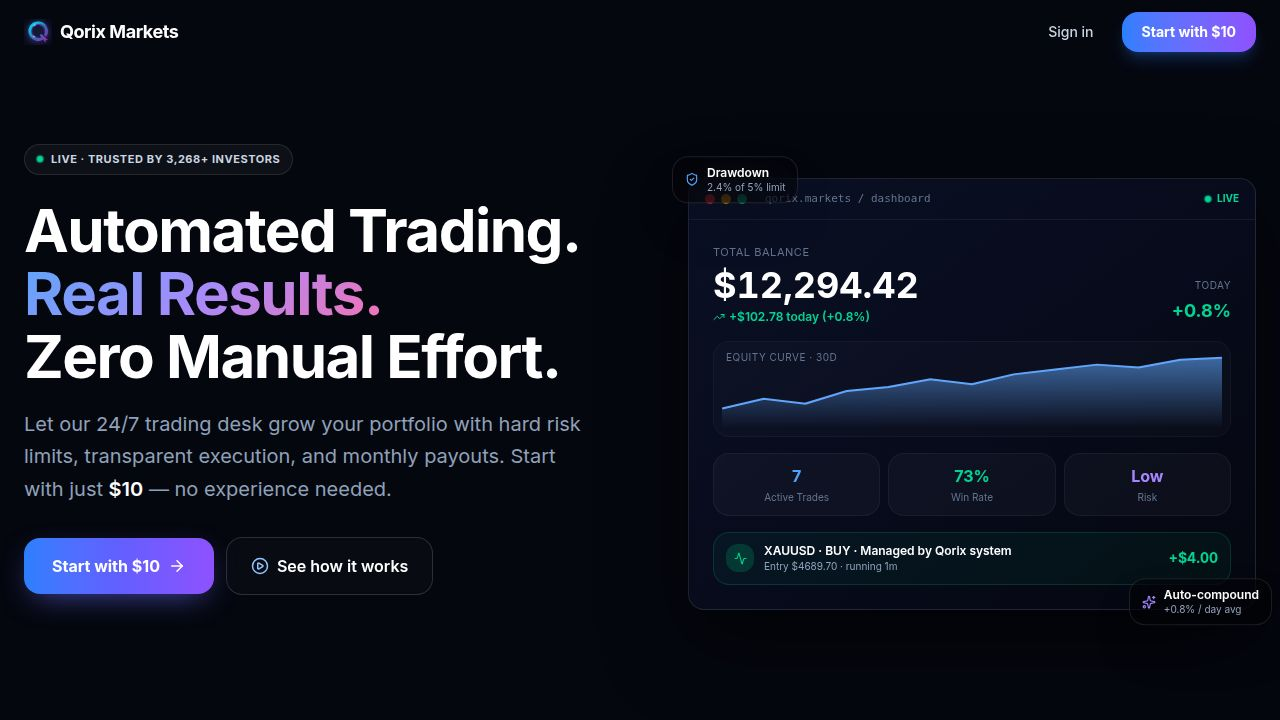
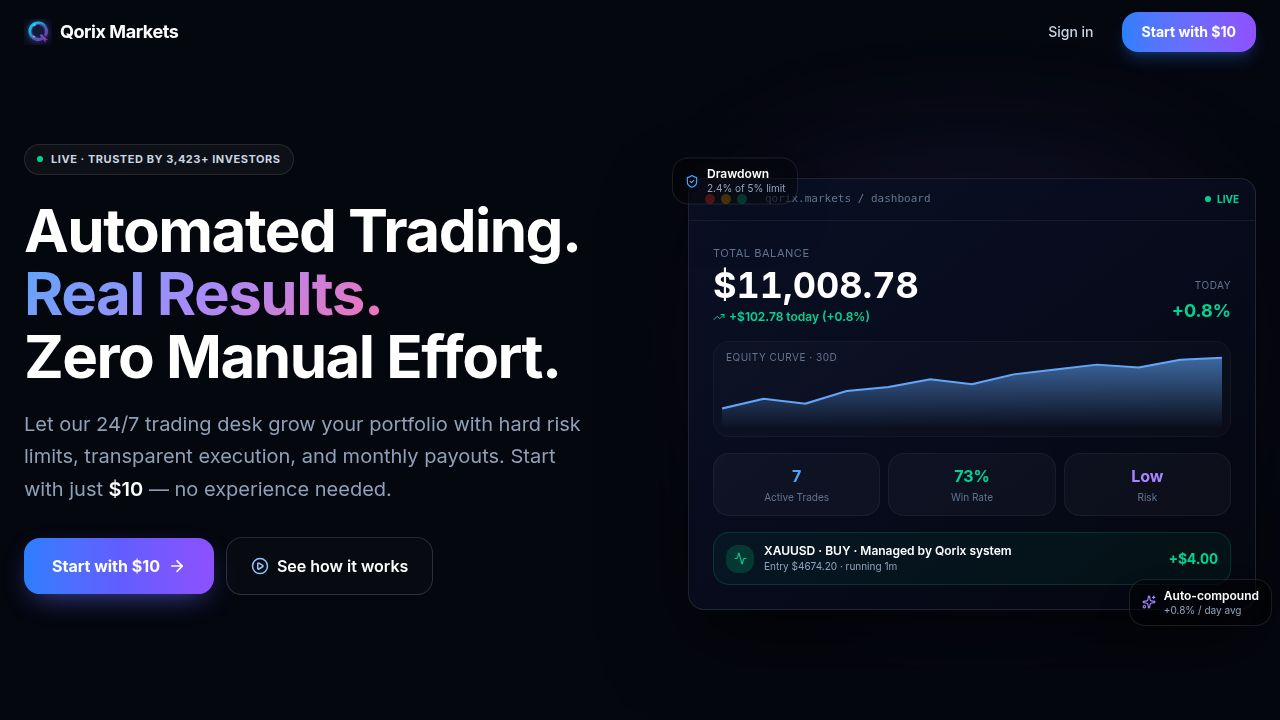
feat(inr-withdraw): replace plain success toast with celebratory receipt modal
User asked for a "achha popup" on the withdrawal page — the prior
single-line toast ("Withdrawal request submitted / ₹X held from your
Main Balance. Admin will process within 24h.") felt thin for an action
that locks real money.

Frontend (artifacts/qorix-markets/src/components/inr-withdraw-tab.tsx):
- New WithdrawalSuccessModal: glass card with emerald gradient halo,
  spring-animated checkmark with pulsing ring, "Submitted" pill,
  big ₹ amount, USDT held + executed rate, payout target row
  (UPI id, or holder/bank/****last4), copyable QXW-XXXXXX reference
  derived from the withdrawal id, "Expected By" ETA = createdAt+24h,
  reassurance footer about auto-refund on rejection.
- Two CTAs: "View History" (closes + smooth-scrolls to recent withdrawals
  via new id="inr-withdraw-history" anchor) and "Done".
- Body scroll locked while open. Backdrop click + X + Done all close.
  Framer-motion spring enter/exit.
- Submit handler reads server response { withdrawal } and drives the
  modal off the server-issued row instead of locally-typed values.
- Modal reads receipt.rateUsed (server-side rate snapshot) instead of
  the live limits.rate prop, so the displayed "@ ₹X.XX" cannot drift if
  the platform rate changes between submit and render.

Two commits shipped in sequence:
- 0d3fd08  feat: celebratory success receipt modal in place of plain toast
- fe5c976  fix: show executed rateUsed from server response (architect-pass tightening)
[…]

diff --git a/artifacts/qorix-markets/src/components/inr-withdraw-tab.tsx b/artifacts/qorix-markets/src/components/inr-withdraw-tab.tsx
@@ -5,6 +5,7 @@ import { useQueryClient } from "@tanstack/react-query";
 import { getGetWalletQueryKey } from "@workspace/api-client-react";
 import {
   IndianRupee, Building2, Smartphone, AlertCircle, CheckCircle2, Clock, Loader2, ShieldCheck,
+  X, Sparkles, Hash, ArrowDownToLine, Copy, Check,
 } from "lucide-react";
 
 const BASE_URL = import.meta.env.BASE_URL?.replace(/\/$/, "") ?? "";
@@ -68,6 +69,11 @@ export function InrWithdrawTab({ kycApproved, onKycRequired }: { kycApproved: bo
   const [ifsc, setIfsc] = useState("");
   const [bankName, setBankName] = useState("");
   const [submitting, setSubmitting] = useState(false);
+
+  // Success modal state — replaces the prior plain toast with a richer
+  // celebratory receipt modal so the user gets a clear, confidence-building
+  // confirmation that their funds have been held and the request is queued.
+  const [successReceipt, setSuccessReceipt] = useState<Withdrawal | null>(null);
 
   // IFSC auto-verification (Razorpay free IFSC API)
   const [ifscStatus, setIfscStatus] = useState<"idle" | "loading" | "verified" | "error">("idle");
@@ -159,11 +165,11 @@ export function InrWithdrawTab({ kycApproved, onKycRequired }: { kycApproved: bo
         body.ifsc = ifsc.trim().toUpperCase();
         if (bankName.trim()) body.bankName = bankName.trim();
       }
-      await apiFetch("/inr-withdrawals", { method: "POST", body: JSON.stringify(body) });
-      toast({
-        title: "Withdrawal request submitted",
-        description: `₹${amount.toFixed(2)} held from your Main Balance. Admin will process within 24h.`,
-      });
+      const resp = await apiFetch("/inr-withdrawals", { method: "POST", body: JSON.stringify(body) });
+      // Show celebratory receipt modal instead of a plain toast. Includes the
+      // server-issued reference id, exact USDT held, payout target, and ETA so
+      // the user has a one-glance proof that the request is queued.
+      if (resp?.withdrawal) setSuccessReceipt(resp.withdrawal as Withdrawal);
       setAmountInr("");
       setUpiId(""); setAccountHolder(""); setAccountNumber(""); setIfsc(""); setBankName("");
       queryClient.invalidateQueries({ queryKey: getGetWalletQueryKey() });
@@ -426,9 +432,18 @@ export function InrWithdrawTab({ kycApproved, onKycRequired }: { kycApproved: bo
         </div>
       )}
 
+      {/* Celebratory success receipt modal — replaces the prior plain toast.
+          Reads the executed rate straight off the server response (`rateUsed`)
+          rather than current `limits.rate`, so the displayed receipt cannot
+          drift if the platform rate is changed between submit and render. */}
+      <WithdrawalSuccessModal
+        receipt={successReceipt}
+        onClose={() => setSuccessReceipt(null)}
+      />
+
       {/* History */}
       {history.length > 0 && (
-        <div className="space-y-2">
+        <div id="inr-withdraw-history" className="space-y-2">
           <div className="text-xs uppercase tracking-wider text-muted-foreground font-semibold pt-2">Recent INR Withdrawals</div>
           <AnimatePresence initial={false}>
             {history.slice(0, 5).map((w) => (
@@ -479,5 +494,275 @@ function StatusPill({ status }: { status: "pending" | "approved" | "rejected" })
     <span className={`inline-flex items-center gap-1 px-2 py-0.5 rounded-full text-[10px] border ${styles}`}>
       <Icon style={{ width: 10, height: 10 }} /> {label}
     </span>
+  );
+}
+
+/**
+ * Celebratory withdrawal success modal.
+ *
+ * Renders a polished receipt overlay when an INR withdrawal request is
+ * accepted by the server. Shows: animated check, big amount, USDT held,
+ * payout target (UPI / bank), reference id, ETA, and CTAs.
+ *
+ * Closing the modal does not affect the underlying state — the history list
+ * below already reflects the new pending entry, so the user can see it again
+ * any time. Body scroll is locked while open for focus.
+ */
+function WithdrawalSuccessModal({
+  receipt,
+  onClose,
+}: {
+  receipt: Withdrawal | null;
+  onClose: () => void;
+}) {
+  const [copied, setCopied] = useState(false);
+
+  // Lock body scroll while modal is open so the celebratory animation gets the
+  // user's full attention and the form below doesn't bleed through visually.
+  useEffect(() => {
+    if (!receipt) return;
+    const prev = document.body.style.overflow;
+    document.body.style.overflow = "hidden";
+    return () => { document.body.style.overflow = prev; };
+  }, [receipt]);
+
+  // Auto-reset the "copied" pill after 1.6s so the affordance can be re-used.
+  useEffect(() => {
+    if (!copied) return;
+    const t = setTimeout(() => setCopied(false), 1600);
+    return () => clearTimeout(t);
+  }, [copied]);
+
+  if (!receipt) return null;
+
+  const refCode = `QXW-${String(receipt.id).padStart(6, "0")}`;
+  const usdtHeld = receipt.amountUsdt;
+  const isUpi = receipt.payoutMethod === "upi";
+  const payoutLine = isUpi
+    ? receipt.upiId ?? "—"
+    : `${receipt.accountHolder ?? "—"} · ${receipt.bankName ?? "Bank"} · ****${(receipt.accountNumber ?? "").slice(-4)}`;
+  const submittedAt = new Date(receipt.createdAt);
+  const etaAt = new Date(submittedAt.getTime() + 24 * 60 * 60 * 1000);
+
+  const copyRef = async () => {
+    try {
+      await navigator.clipboard.writeText(refCode);
+      setCopied(true);
+    } catch {
+      /* clipboard not available — silently ignore */
+    }
+  };
+
+  const scrollToHistory = () => {
+    const el = document.getElementById("inr-withdraw-history");
+    onClose();
+    setTimeout(() => {
+      el?.scrollIntoView({ behavior: "smooth", block: "start" });
+    }, 60);
+  };
+
+  return (
+    <AnimatePresence>
+      <motion.div
+        key="backdrop"
+        initial={{ opacity: 0 }}
+        animate={{ opacity: 1 }}
+        exit={{ opacity: 0 }}
+        transition={{ duration: 0.2 }}
+        onClick={onClose}
+        className="fixed inset-0 z-[120] flex items-center justify-center px-4 py-6 bg-black/75 backdrop-blur-sm"
+      >
+        <motion.div
+          key="card"
+          initial={{ opacity: 0, scale: 0.92, y: 12 }}
+          animate={{ opacity: 1, scale: 1, y: 0 }}
+          exit={{ opacity: 0, scale: 0.96, y: 8 }}
+          transition={{ type: "spring", stiffness: 260, damping: 24 }}
+          onClick={(e) => e.stopPropagation()}
+          className="relative w-full max-w-sm overflow-hidden rounded-3xl border border-emerald-500/30 bg-gradient-to-b from-[#0b1f17] via-[#0a1814] to-[#070d0b] shadow-[0_24px_80px_rgba(16,185,129,0.35)]"
+        >
+          {/* Sparkle ribbon at top */}
+          <div className="absolute inset-x-0 top-0 h-[3px] bg-gradient-to-r from-transparent via-emerald-400/80 to-transparent" />
+          <div className="pointer-events-none absolute -top-12 left-1/2 -translate-x-1/2 h-40 w-40 rounded-full bg-emerald-500/25 blur-3xl" />
+
+          {/* Close */}
+          <button
+            onClick={onClose}
+            className="absolute top-3 right-3 w-7 h-7 rounded-full flex items-center justify-center text-white/50 hover:text-white hover:bg-white/10 transition z-10"
+            aria-label="Close"
+          >
+            <X className="w-4 h-4" />
+          </button>
+
+          <div className="relative px-6 pt-7 pb-5 text-center">
+            {/* Animated check */}
+            <motion.div
+              initial={{ scale: 0, rotate: -45 }}
+              animate={{ scale: 1, rotate: 0 }}
+              transition={{ delay: 0.1, type: "spring", stiffness: 280, damping: 18 }}
+              className="relative mx-auto w-16 h-16 rounded-full bg-gradient-to-br from-emerald-400 to-emerald-600 flex items-center justify-center shadow-[0_8px_28px_rgba(16,185,129,0.45)]"
+            >
+              {/* Pulsing ring */}
+              <motion.span
+                className="absolute inset-0 rounded-full border-2 border-emerald-300/60"
+                initial={{ scale: 1, opacity: 0.7 }}
+                animate={{ scale: 1.7, opacity: 0 }}
+                transition={{ duration: 1.4, repeat: Infinity, ease: "easeOut" }}
+              />
+              <CheckCircle2 className="w-9 h-9 text-white" strokeWidth={2.5} />
+            </motion.div>
+
+            <motion.div
+              initial={{ opacity: 0, y: 6 }}
+              animate={{ opacity: 1, y: 0 }}
+              transition={{ delay: 0.25 }}
+              className="mt-4 inline-flex items-center gap-1.5 px-2.5 py-0.5 rounded-full text-[10px] font-bold uppercase tracking-wider bg-emerald-500/15 text-emerald-300 border border-emerald-500/30"
+            >
+              <Sparkles className="w-3 h-3" /> Submitted
+            </motion.div>
+
+            <motion.h3
+              initial={{ opacity: 0 }}
+              animate={{ opacity: 1 }}
+              transition={{ delay: 0.3 }}
+              className="mt-3 text-xl font-bold text-white"
+            >
+              Withdrawal Request Placed
+            </motion.h3>
+            <motion.p
+              initial={{ opacity: 0 }}
+              animate={{ opacity: 1 }}
+              transition={{ delay: 0.35 }}
+              className="mt-1 text-[13px] text-white/60"
+            >
+              Funds are safely held — payout on its way.
+            </motion.p>
+
+            {/* Big amount */}
+            <motion.div
+              initial={{ opacity: 0, y: 8 }}
+              animate={{ opacity: 1, y: 0 }}
+              transition={{ delay: 0.4 }}
+              className="mt-5 rounded-2xl border border-white/10 bg-black/30 px-4 py-4"
+            >
+              <div className="text-[10px] uppercase tracking-wider text-white/50 font-semibold">Amount Requested</div>
+              <div className="mt-1 text-3xl font-extrabold text-white tabular-nums">
+                ₹{receipt.amountInr.toLocaleString(undefined, { minimumFractionDigits: 2, maximumFractionDigits: 2 })}
+              </div>
+              <div className="mt-1 text-[11px] text-emerald-300/90 inline-flex items-center gap-1">
+                <ArrowDownToLine className="w-3 h-3" />
+                ${usdtHeld.toFixed(2)} USDT held from Main Balance
+                {receipt.rateUsed > 0 && (
+                  <span className="text-white/40 ml-1">@ ₹{receipt.rateUsed.toFixed(2)}</span>
+                )}
+              </div>
+            </motion.div>
+          </div>
+
+          {/* Receipt rows */}
+          <motion.div
+            initial={{ opacity: 0 }}
+            animate={{ opacity: 1 }}
+            transition={{ delay: 0.45 }}
+            className="px-6 pb-5 space-y-2.5"
+          >
+            <ReceiptRow
+              icon={isUpi ? <Smartphone className="w-3.5 h-3.5" /> : <Building2 className="w-3.5 h-3.5" />}
+              label={isUpi ? "Payout to UPI" : "Payout to Bank"}
+              value={payoutLine}
+              mono={!isUpi}
+            />
+            <ReceiptRow
+              icon={<Hash className="w-3.5 h-3.5" />}
+              label="Reference"
+              value={
+                <button
+                  onClick={copyRef}
+                  className="inline-flex items-center gap-1 font-mono text-[12px] text-emerald-300 hover:text-emerald-200 transition"
+                >
+                  {refCode}
+                  {copied ? (
+                    <Check className="w-3 h-3 text-emerald-400" />
+                  ) : (
+                    <Copy className="w-3 h-3 opacity-60" />
+                  )}
+                </button>
+              }
+            />
+            <ReceiptRow
+              icon={<Clock className="w-3.5 h-3.5" />}
+              label="Expected By"
+              value={
+                <span>
+                  {etaAt.toLocaleString(undefined, {
+                    day: "2-digit", month: "short", hour: "2-digit", minute: "2-digit",
+                  })}
+                  <span className="text-white/40 ml-1">(within 24h)</span>
+                </span>
+              }
+            />
+          </motion.div>
+
+          {/* Reassurance footer */}
+          <motion.div
+            initial={{ opacity: 0 }}
+            animate={{ opacity: 1 }}
+            transition={{ delay: 0.55 }}
+            className="mx-6 mb-5 flex items-start gap-2 rounded-xl border border-amber-500/20 bg-amber-500/8 px-3 py-2.5 text-[11px] text-amber-200/90"
+          >
+            <ShieldCheck className="w-3.5 h-3.5 mt-0.5 shrink-0 text-amber-300" />
+            <span className="leading-snug">
+              If rejected for any reason, the held amount is automatically refunded to your Main Balance.
+            </span>
+          </motion.div>
+
+          {/* CTAs */}
+          <motion.div
+            initial={{ opacity: 0, y: 6 }}
+            animate={{ opacity: 1, y: 0 }}
+            transition={{ delay: 0.6 }}
+            className="px-6 pb-6 grid grid-cols-2 gap-2.5"
+          >
+            <button
+              onClick={scrollToHistory}
+              className="rounded-xl px-3 py-2.5 text-sm font-semibold text-white/90 bg-white/[0.06] border border-white/10 hover:bg-white/[0.1] transition"
+            >
+              View History
+            </button>
+            <button
+              onClick={onClose}
+              className="rounded-xl px-3 py-2.5 text-sm font-bold text-white shadow-[0_4px_18px_rgba(16,185,129,0.35)] transition hover:brightness-110"
+              style={{ background: "linear-gradient(135deg,#10b981,#059669)" }}
+            >
+              Done
+            </button>
+          </motion.div>
+        </motion.div>
+      </motion.div>
+    </AnimatePresence>
+  );
+}
+
+function ReceiptRow({
+  icon,
+  label,
+  value,
+  mono,
+}: {
+  icon: React.ReactNode;
+  label: string;
+  value: React.ReactNode;
+  mono?: boolean;
+}) {
+  return (
+    <div className="flex items-start justify-between gap-3 rounded-xl border border-white/8 bg-white/[0.02] px-3 py-2.5">
+      <div className="flex items-center gap-2 text-[11px] text-white/55 font-medium shrink-0">
+        <span className="text-emerald-300/70">{icon}</span>
+        {label}
+      </div>
+      <div className={`text-right text-[12px] text-white/90 ${mono ? "font-mono" : ""} break-all`}>
+        {value}
+      </div>
+    </div>
   );
 }